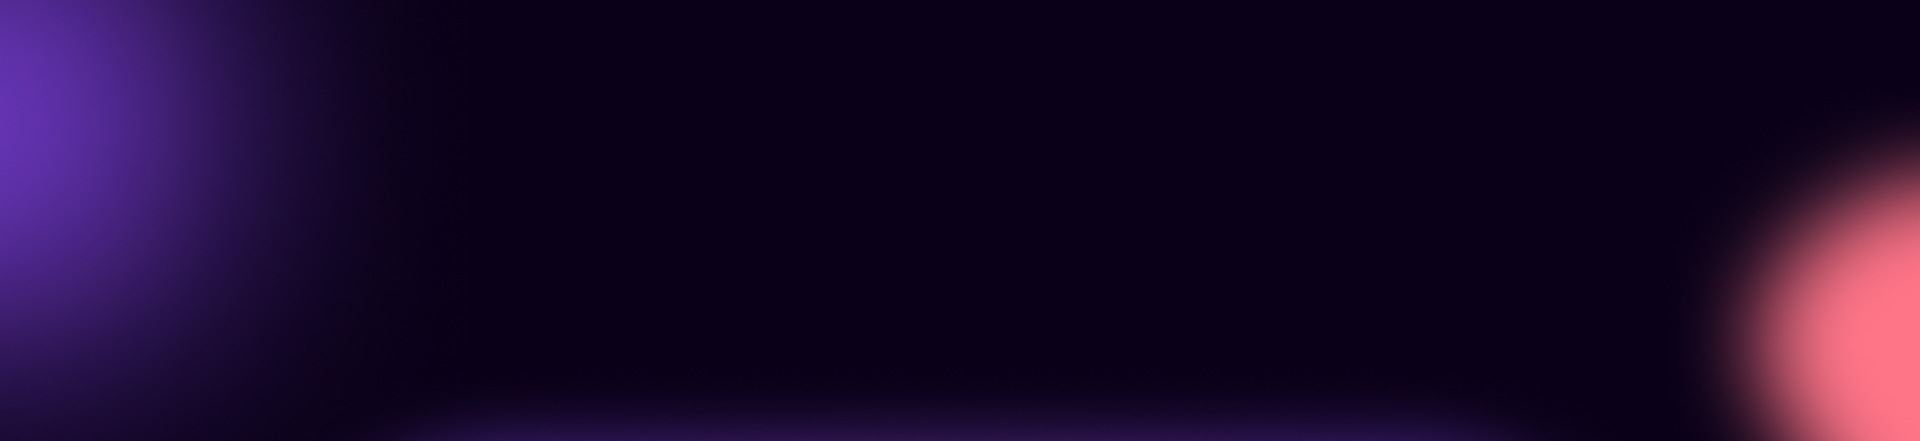
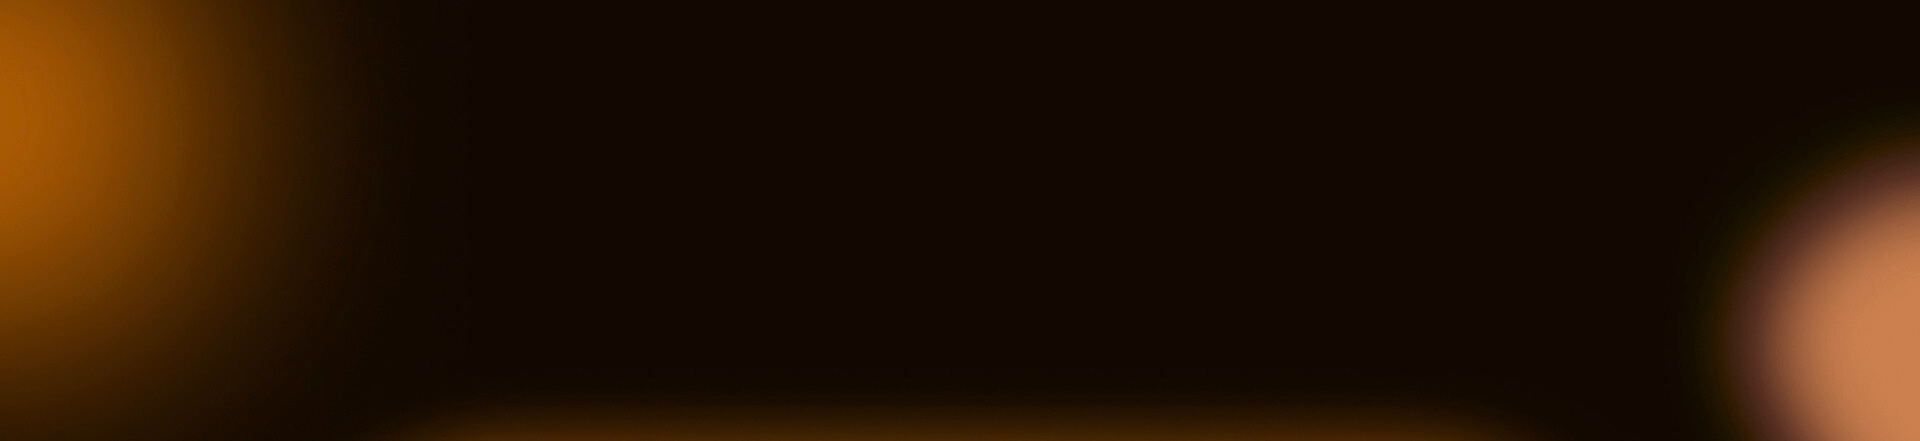
color and theme updated

diff --git a/wealth-clip/index.html b/wealth-clip/index.html
@@ -166,35 +166,7 @@
                                                 target="_blank" class="theme-btn style-one">Book a meeting </a>
                                         </div>
                                     </div>
-                                    <!--===  Hero Search  ===-->
-                                    <!-- <div class="hero-search mb-20" data-aos="fade-up" data-aos-duration="1600">
-                                            <form>
-                                                <label><i class="far fa-envelope"></i></label>
-                                                <input type="text" class="form_control" placeholder="Email Address" required>
-                                                <button class="theme-btn style-one">Try For Demo</button>
-                                            </form>
-                                        </div> -->
-                                    <!-- <div class="row justify-content-center" data-aos="fade-up" data-aos-duration="1700">
-                                            <div class="col-xl-8 col-lg-9">
-                                                <div class="row">
-                                                    <div class="col-md-4">
-                                                        <ul class="check-list style-one">
-                                                            <li><i class="fas fa-check"></i>No credit card required</li>
-                                                        </ul>
-                                                    </div>
-                                                    <div class="col-md-4">
-                                                        <ul class="check-list style-one">
-                                                            <li><i class="fas fa-check"></i>14-days free trial</li>
-                                                        </ul>
-                                                    </div>
-                                                    <div class="col-md-4">
-                                                        <ul class="check-list style-one">
-                                                            <li><i class="fas fa-check"></i>Generate in seconds using AI</li>
-                                                        </ul>
-                                                    </div>
-                                                </div>
-                                            </div>
-                                        </div> -->
+                                    
                                 </div>
                             </div>
                         </div>

diff --git a/wealth-clip/assets/css/style.css b/wealth-clip/assets/css/style.css
@@ -62,8 +62,8 @@ body {
   left: 0;
   width: 100%;
   height: 370px;
-  background: -webkit-gradient(linear, left bottom, left top, from(rgba(125, 66, 220, 0.07)), color-stop(69.58%, rgba(125, 66, 220, 0)));
-  background: linear-gradient(0deg, rgba(125, 66, 220, 0.07) 0%, rgba(125, 66, 220, 0) 69.58%);
+  background: -webkit-gradient(linear, left bottom, left top, from(rgba(250, 128, 41, 0.176)), color-stop(69.58%, rgba(220, 151, 66, 0)));
+  background: linear-gradient(0deg, rgba(220, 143, 66, 0.07) 0%, rgba(220, 135, 66, 0) 69.58%);
 }
 .hero-ai .shape {
   position: absolute;
@@ -240,7 +240,7 @@ body {
   width: 80%;
   height: 220px;
   border-radius: 220px;
-  background: radial-gradient(50% 50% at 50% 50.77%, #fe641a 0%, #7D42DC 100%);
+  background: radial-gradient(50% 50% at 50% 50.77%, #fe641a 0%, #fb8d2c 100%);
   -webkit-filter: blur(30px);
           filter: blur(30px);
   z-index: -1;

diff --git a/wealth-clip/404.html b/wealth-clip/404.html
@@ -8,7 +8,7 @@
         <meta name="description" content="Main landing page for AI products, showcasing key features, benefits, and CTA sections.">
         <meta name="viewport" content="width=device-width, initial-scale=1, shrink-to-fit=no">
         <!--====== Title ======-->
-        <title>Sasly - Multipurpose Landing Page HTML Template</title>
+        <title>404 - Wealth Clip Media</title>
         <!--====== Favicon Icon ======-->
         <link rel="shortcut icon" href="assets/images/favicon.png" type="image/png">
         <!--====== Google Fonts ======-->
